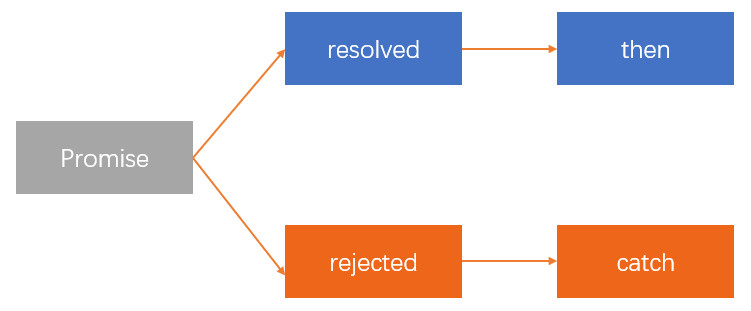
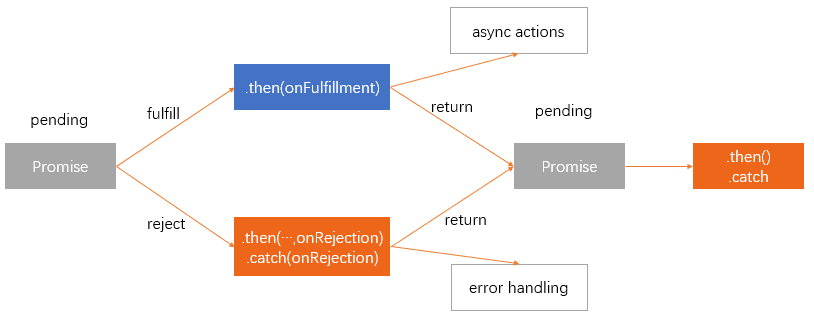
add promise part

diff --git a/ppt/es6/index.html b/ppt/es6/index.html
@@ -396,15 +396,43 @@
 						```
 					</script>
 				</section>
+				<section data-markdown>
+					<script type="text/template">
+						### promise: syntax
+						```javascript
+						function asyncFunc()
+						{
+							return new Promise((resolve, reject) => {
+								...
+								resolve(result)     // pending->resolved
+								...
+								reject(error)       // pending->rejected
+							})
+						}
+
+						asyncFunc().then(result => {
+							// success
+						}).catch(error => {
+							// failure
+						})
+						```
+					</script>
+				</section>
 				<section>
-					<h3>promise</h3>
-					<img width="751" height="311" src="promise.png">
+					<h3>promise: states</h3>
+					<img width="814" height="319" src="promise.png">
 				</section>
 				<section data-markdown>
 					<script type="text/template">
-						### promise
+						### promise: advanced
 						```javascript
+						Promise.all([promise1, promise2, promise3])
 
+						Promise.race([promise1, promise2, promise3])
+
+						Promise.resolve()
+
+						Promise.reject()
 						```
 					</script>
 				</section>
